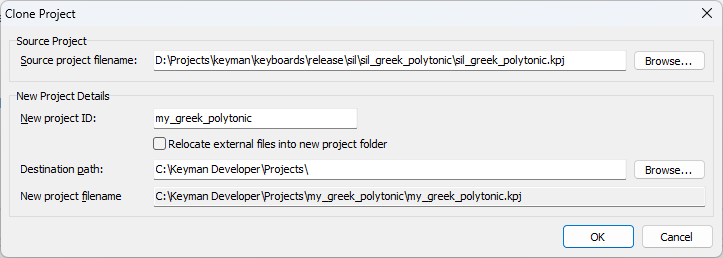
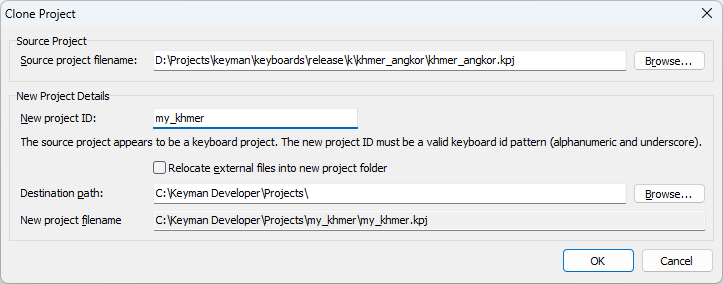
feat(developer): clarify project id format for kmc-copy UI
Fixes: #13073

diff --git a/developer/docs/help/context/new-project.md b/developer/docs/help/context/new-project.md
@@ -24,17 +24,20 @@ Creates a lexical model project that matches the folder structure used in the Ke
 ## Clone local project
 
 Copies a Keyman keyboard or lexical model project on your local filesystem into
-a new folder, giving the project and included files a new name.
+a new folder, giving the project and included files a new name. Clicking OK will
+open the [Clone Local Project Parameters dialog](clone-local-project-parameters).
 
 ## Clone project from Keyman Cloud
 
 Copies a Keyman keyboard or lexical model project from keyman.com into a new
-folder, giving the project and included files a new name.
+folder, giving the project and included files a new name. Clicking OK will
+open the [Clone Keyman Cloud Project Parameters dialog](clone-keyman-cloud-project-parameters).
 
 ## Clone project from GitHub
 
 Copies a Keyman keyboard or lexical model project from a GitHub repository into
-a new folder, giving the project and included files a new name.
+a new folder, giving the project and included files a new name. Clicking OK will
+open the [Clone GitHub Project Parameters dialog](clone-github-project-parameters).
 
 # Command line access
 
